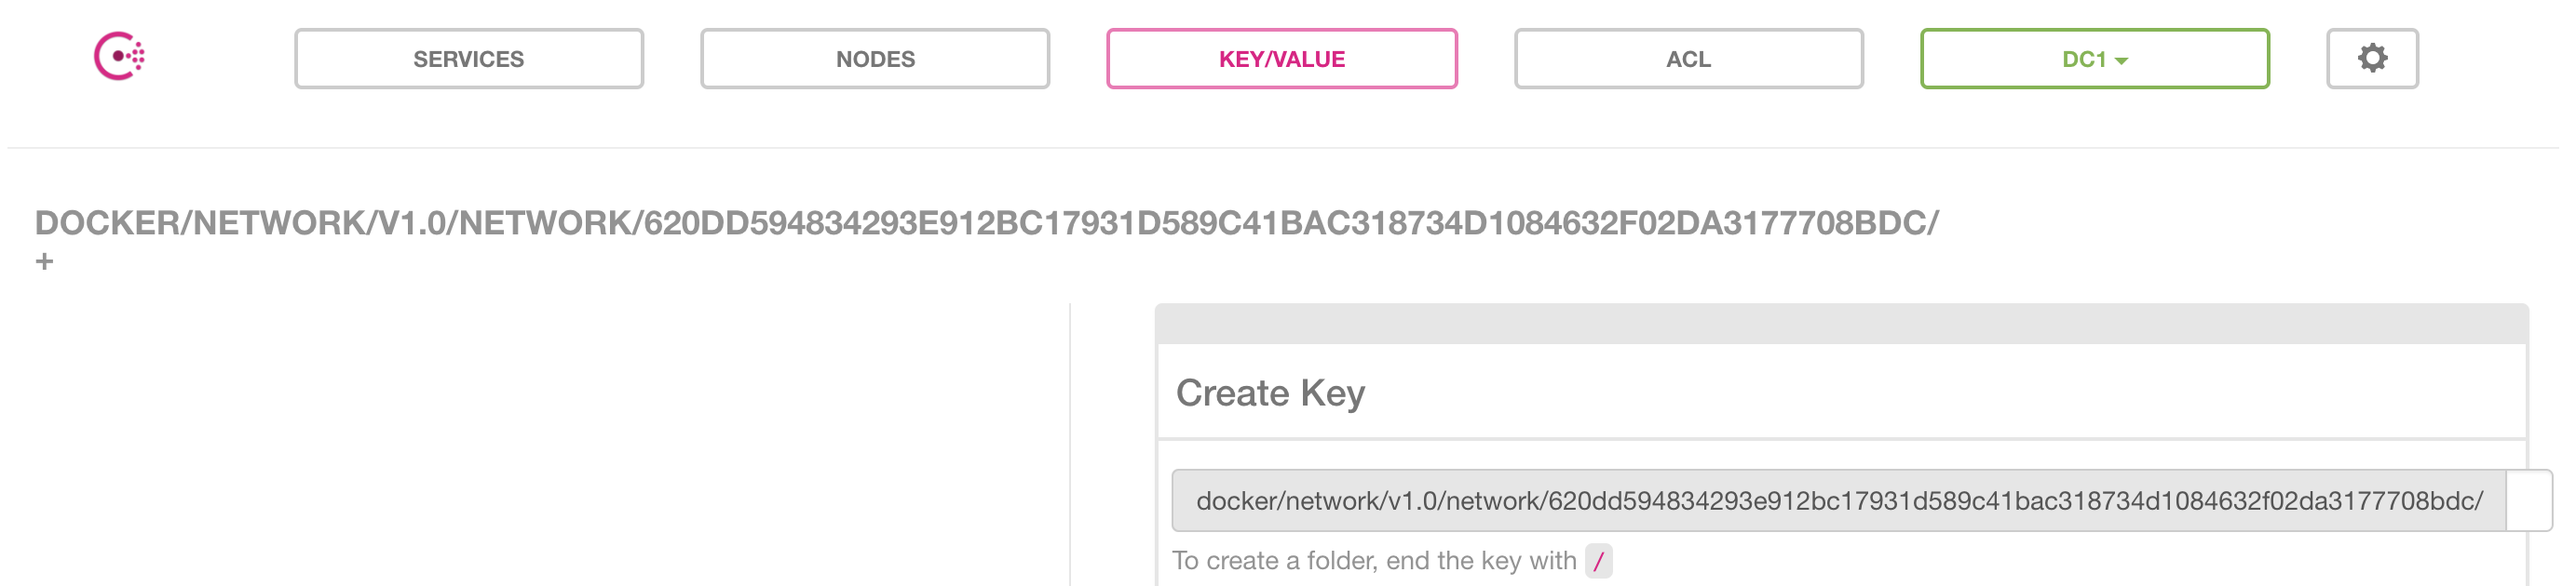
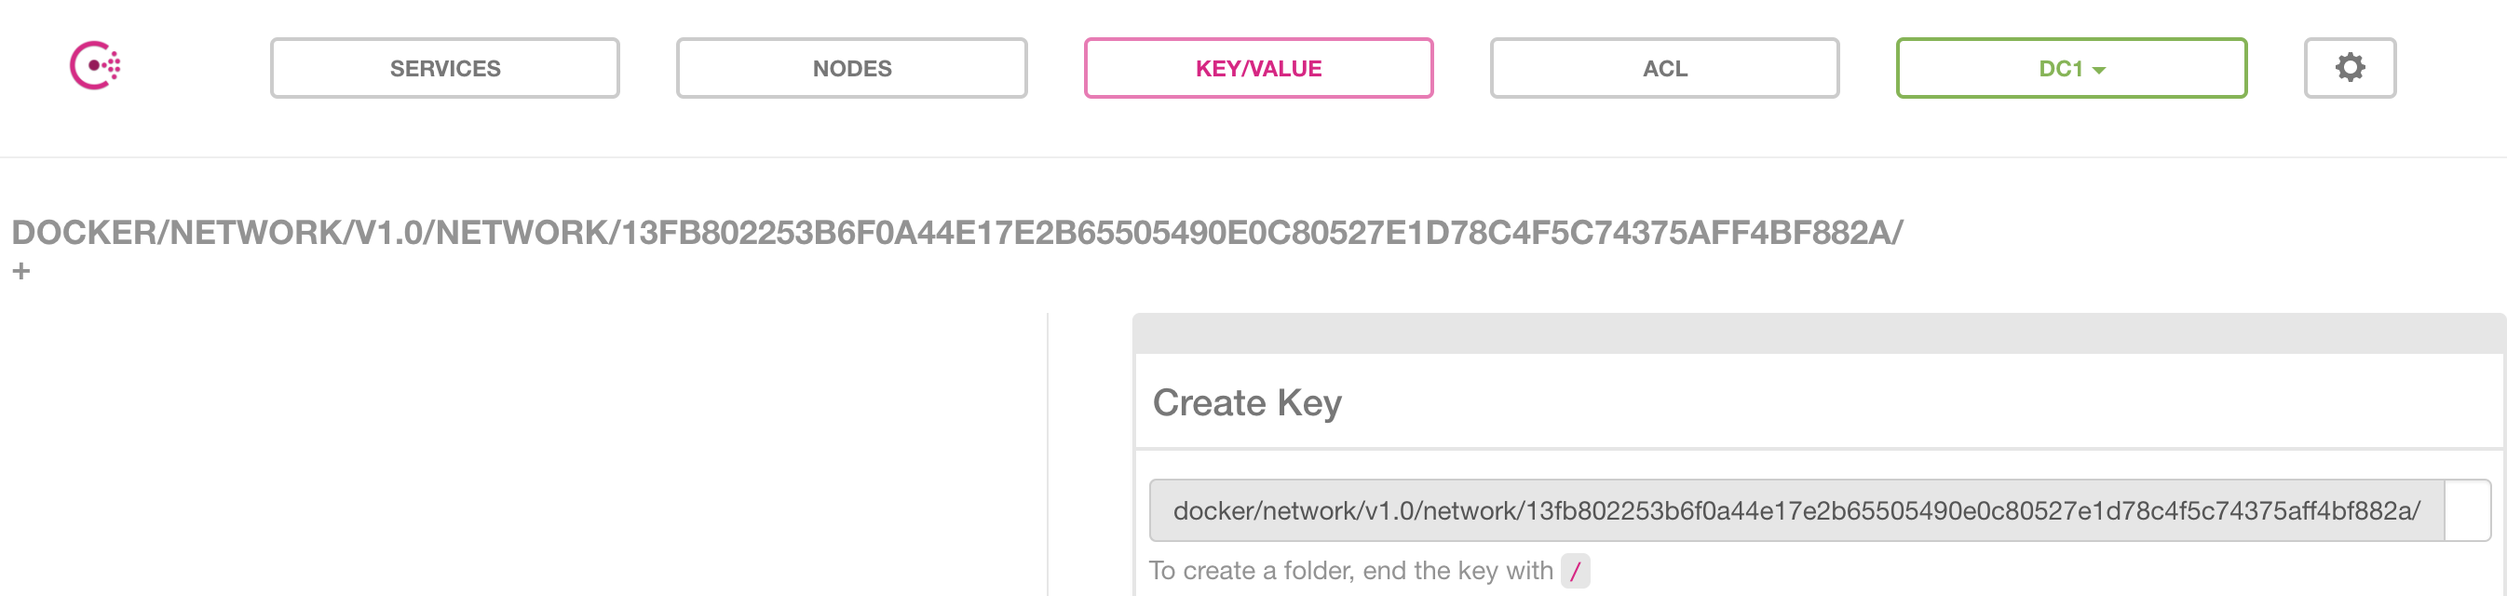
Small fixes

diff --git a/_posts/2017-04-25-deep-dive-into-docker-overlay-networks-part-1.md b/_posts/2017-04-25-deep-dive-into-docker-overlay-networks-part-1.md
@@ -92,14 +92,15 @@ The three instances are configured with userdata: consul and docker are
 installed and started with the good options, an entry is added to /etc/hosts so
 consul resolves into the IP address of the consul server. When connecting to
 consul or docker servers, you should use the public IP addresses (given in
-terraform outputs).
+terraform outputs) and connect with user "admin" (the terraform setup uses
+a debian AMI).
 
 ### Creating an Overlay
 We can now create an overlay network between our two Docker nodes:
 
 ```console
 docker0:~$ docker network create --driver overlay --subnet 192.168.0.0/24 demonet
[2 lines of base64/hex data omitted]
 ```
 
 We are using the overlay driver, and are choosing 192.168.0.0/24 as a subnet for
@@ -110,24 +111,24 @@ Let's check that we configured our overlay correctly by listing networks on both
 hosts.
 
 ```console
+docker0:~$ docker network ls
 NETWORK ID          NAME                DRIVER              SCOPE
 eb096cb816c0        bridge              bridge              local
-620dd5948342        demonet             overlay             global
+13fb802253b6        demonet             overlay             global
 d538d58b17e7        host                host                local
 f2ee470bb968        none                null                local
 
 docker1:~$ docker network ls
-admin@docker1:~$ docker network ls
 docker network ls
 NETWORK ID          NAME                DRIVER              SCOPE
 eb7a05eba815        bridge              bridge              local
-620dd5948342        demonet             overlay             global
+13fb802253b6        demonet             overlay             global
 4346f6c422b2        host                host                local
 5e8ac997ecfa        none                null                local
 ```
 
 This looks good: both Docker nodes know the demonet network and it has the same
-id (*620dd5948342*) on both hosts.
+id (*13fb802253b6*) on both hosts.
 
 Let's now check that our overlay works by creating a container on docker0 and
 trying to ping it from docker1. On docker0, we create a C0 container, attach it
@@ -251,7 +252,7 @@ To list the network namespaces created by Docker we can simply run:
 ```console
 docker0:~$ sudo ls -1 /var/run/docker/netns
 e4b8ecb7ae7c
-1-620dd59483
+1-13fb802253
 ```
 
 To use this information, we need to identify the network namespace of
@@ -319,7 +320,7 @@ managed by docker, we can see that it has appeared in the list:
 docker0:~$ docker network ls
 NETWORK ID          NAME                DRIVER              SCOPE
 eb096cb816c0        bridge              bridge              local
-620dd5948342        demonet             overlay             global
+13fb802253b6        demonet             overlay             global
 f6823b311fd2        docker_gwbridge     bridge              local
 d538d58b17e7        host                host                local
 f2ee470bb968        none                null                local
@@ -380,23 +381,23 @@ in another one. If we look again at the network namespaces:
 ```console
 docker0:~$ sudo ls -1 /var/run/docker/netns
 e4b8ecb7ae7c
-1-620dd59483
+1-13fb802253
 ```
 
-We can see a namespace called "1-620dd59483". Except for the "1-", the name of
+We can see a namespace called "1-13fb802253". Except for the "1-", the name of
 this namespace is the beginning of the network id of our overlay network:
 
 {% raw %}
     docker0:~$ docker network inspect demonet -f {{.Id}}
[2 lines of base64/hex data omitted]
 {% endraw %}
 
 This namespace is clearly related to our overlay network. We can look at the
 interfaces present in that namespace:
 
 ```console
-$ overns=/var/run/docker/netns/1-620dd59483
-$ sudo nsenter --net=$overns ip -d link show
+docker0:~$ overns=/var/run/docker/netns/1-13fb802253
+docker0:~$ sudo nsenter --net=$overns ip -d link show
 2: br0: <BROADCAST,MULTICAST,UP,LOWER_UP> mtu 1450 qdisc noqueue state UP mode DEFAULT group default
     link/ether 3a:2d:44:c0:0e:aa brd ff:ff:ff:ff:ff:ff promiscuity 0
     bridge

diff --git a/_posts/2017-05-09-deep-dive-into-docker-overlay-networks-part-2.md b/_posts/2017-05-09-deep-dive-into-docker-overlay-networks-part-2.md
@@ -51,14 +51,11 @@ PING 192.168.0.100 (192.168.0.100): 56 data bytes
 docker0:~$ sudo tcpdump -pni eth0 "port 4789"
 tcpdump: verbose output suppressed, use -v or -vv for full protocol decode
 listening on eth0, link-type EN10MB (Ethernet), capture size 262144 bytes
-sudo tcpdump -peni eth0 "port 4789"
-tcpdump: verbose output suppressed, use -v or -vv for full protocol decode
-listening on eth0, link-type EN10MB (Ethernet), capture size 262144 bytes
-17:46:13.884307 06:4c:1f:a8:84:3b > 06:e2:c0:20:ec:9f, 10.0.0.11.14596 > 10.0.0.10.4789: VXLAN, flags [I] (0x08), vni 256
-02:42:c0:a8:00:02 > 02:42:c0:a8:00:64, 192.168.0.2 > 192.168.0.100: ICMP echo request, id 1, seq 0, length 64
+12:55:53.652322 IP 10.0.0.11.64667 > 10.0.0.10.4789: VXLAN, flags [I] (0x08), vni 256
+IP 192.168.0.2 > 192.168.0.100: ICMP echo request, id 1, seq 0, length 64
 
-17:46:13.884407 06:e2:c0:20:ec:9f > 06:4c:1f:a8:84:3b, 10.0.0.10.54415 > 10.0.0.11.4789: VXLAN, flags [I] (0x08), vni 256
-02:42:c0:a8:00:64 > 02:42:c0:a8:00:02, 192.168.0.100 > 192.168.0.2: ICMP echo reply, id 1, seq 0, length 64
+12:55:53.652409 IP 10.0.0.10.47697 > 10.0.0.11.4789: VXLAN, flags [I] (0x08), vni 256
+IP 192.168.0.100 > 192.168.0.2: ICMP echo reply, id 1, seq 0, length 64
 ```
 Each packet generates two lines of output in tcpdump because due to VXLAN frames
 analysis (a few fields have been removed for readability):
@@ -83,13 +80,13 @@ There is no ARP information inside the container. If we ping C0 the container
 will generate ARP traffic. Let's first see how this traffic is seen in the
 overlay namespace on docker0:
 ```console
-docker0:~$ sudo nsenter --net=$overns tcpdump -peni any "arp"
+docker0:~$ sudo nsenter --net=$overns tcpdump -pni any "arp"
 ```
 
 Going back to our container, we will try to ping C0, which will generate an ARP
 packet:
 ```console
-$ ping 192.168.0.100
+root@6234b23677b9:/# ping 192.168.0.100
 ```
 There is nothing in tcpdump on docker0 so the ARP traffic is not sent in the
 VXLAN tunnel (you may see ARP requests but no for host 192.168.0.100). Let's
@@ -105,8 +102,8 @@ to the network.
 ```console
 docker1:~$ sudo ls -1 /var/run/docker/netns
 102022d57fab
-xx-620dd5948
-docker1:~$ overns=xx-620dd5948
+x-13fb802253
+docker1:~$ overns=/var/run/docker/netns/x-13fb802253
 docker1:~$ sudo nsenter --net=$overns tcpdump -peni any "arp"
 ```
 When we ping from the window with the container, here is what we see in tcpdump:
@@ -176,7 +173,7 @@ We can first look at the content of Consul. What is stored in there?
 
 The network that was empty when we started now contains information and we can
 recognize the id of our overlay:
-620dd594834293e912bc17931d589c41bac318734d1084632f02da3177708bdc.
+13fb802253b6f0a44e17e2b65505490e0c80527e1d78c4f5c74375aff4bf882a.
 
 The Consul UI does not display keys when they are too long but we can use curl
 to look at the content (Docker stores the information as JSON which is based64
@@ -194,7 +191,7 @@ encoded and Consul answers queries in JSON):
         "com.docker.network.enable_ipv6": false,
         "com.docker.network.generic": {}
       },
[2 lines of base64/hex data omitted]
       "inDelete": false,
       "ingress": false,
       "internal": false,
@@ -213,7 +210,7 @@ encoded and Consul answers queries in JSON):
 
 We can find all the metadata on our network:
 - name: demonet
-- id: 620dd594834293e912bc17931d589c41bac318734d1084632f02da3177708bdc
+- id: 13fb802253b6f0a44e17e2b65505490e0c80527e1d78c4f5c74375aff4bf882a
 - subnet range: 192.168.0.0/24
 
 We can also retrieve information about endpoints but the curl queries are hard
